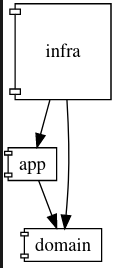
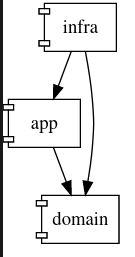
update readme

Changed region(s): [[0.0, 0.0, 0.958, 1.0], [0.0, 0.0, 0.0252, 0.4047], [0.0, 0.4358, 0.0252, 0.5292]]

diff --git a/README.md b/README.md
@@ -84,6 +84,7 @@ sbuilder
 | exclude_parents         | Исключить из графа ребра, направленные из перечисленных компонентов. |
 | exclude_children        | Исключить из графа ребра, направленные в перечисленные компоненты. |
 | custom                  | Пользовательские компоненты. |
+| only                    | Включить в граф ребра, соединяющие только перечисленные компоненты. |
 | colors                  | Цвета компонентов. |
 | extend_ids              | Регулярные выражения, позволяющие расширить идентификаторы компонентов. |
 
@@ -261,20 +262,12 @@ custom = [
 
 ### Как связаны между собой слои приложения?
 
-Допустим, в приложении три основных слоя: domain, app и infra. Все .go-файлы располагаются в соответствующих пакетах. В граф компонентов включаются только соответствующе пространства имен (include_parents, include_children). Все go-файлы в слоях объединяются в пользовательские компоненты (custom). Чтобы сравнить объем исходного кода в слоях приложения, активирована настройка enable_size.
+Допустим, в приложении три основных слоя: domain, app и infra. Все .go-файлы располагаются в соответствующих пакетах. В граф компонентов включаются только соответствующе пространства имен (only). Все go-файлы в слоях объединяются в пользовательские компоненты (custom).
 
 ``` 
 project_directory = '/path/to/project'
 
-enable_size = true
-
-include_parents = [
-    '/internal/app',
-    '/internal/domain',
-    '/internal/infra'
-]
-
-include_children = [
+only = [
     '/internal/app',
     '/internal/domain',
     '/internal/infra'
